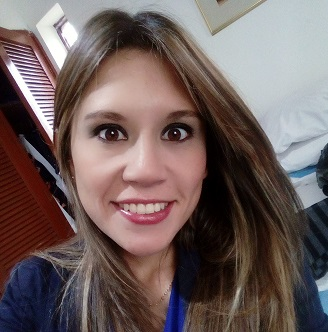
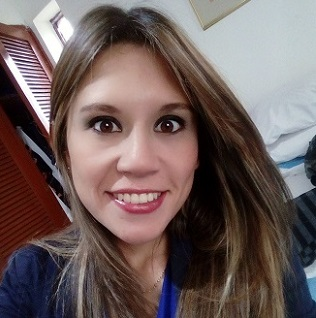
Se incluyó a Betsy

diff --git a/index.html b/index.html
@@ -424,19 +424,19 @@
                         </div>
                         <div class="col-md-3 col-sm-6">
                             <div class="image-tile outer-title text-center">
-                                <img alt="Pic" src="img/juliana.jpg" />
+                                <img alt="Pic" src="img/betsy.png" />
                                 <div class="title mb16">
                                     <h5 class="uppercase mb0">BETSY SILVA </h5>
                                     <span>Ejecutiva Comercial</span>
                                 </div>
                                 <p class="mb0" style="text-align: justify">
-                                    Estudió Administración de Empresas y una especialización en Gerencia de Proyectos en la Universidad El Bosque. Le apasiona
-                                    el área comercial y a cada cliente lo gerencia bajo el marco de HCD orientando todo a las necesidades de las
-                                    organizaciones.
+                                     Es una persona sencilla, colaboradora, honesta muy proactiva y organizada. Esta casada; tiene un hijo maravilloso, le gusta
+                                    leer lo que caiga en las manos, ir a la playa con su familia es el mejor plan, le encanta el sol, pasar tiempo con su familia
+                                    es la mejor forma de relajarse, ellos siempre son su primera opción en su tiempo libre.
                                 </p>
                                 <p style="text-align:left">
                                     <i class="ti-email"></i>
-                                    <a href="mailto:juliana@psimbiosis.com">juliana@psimbiosis.com</a>
+                                    <a href="mailto:betsy@psimbiosis.com">betsy@psimbiosis.com</a>
                                 </p>
                             </div>
                         </div>
